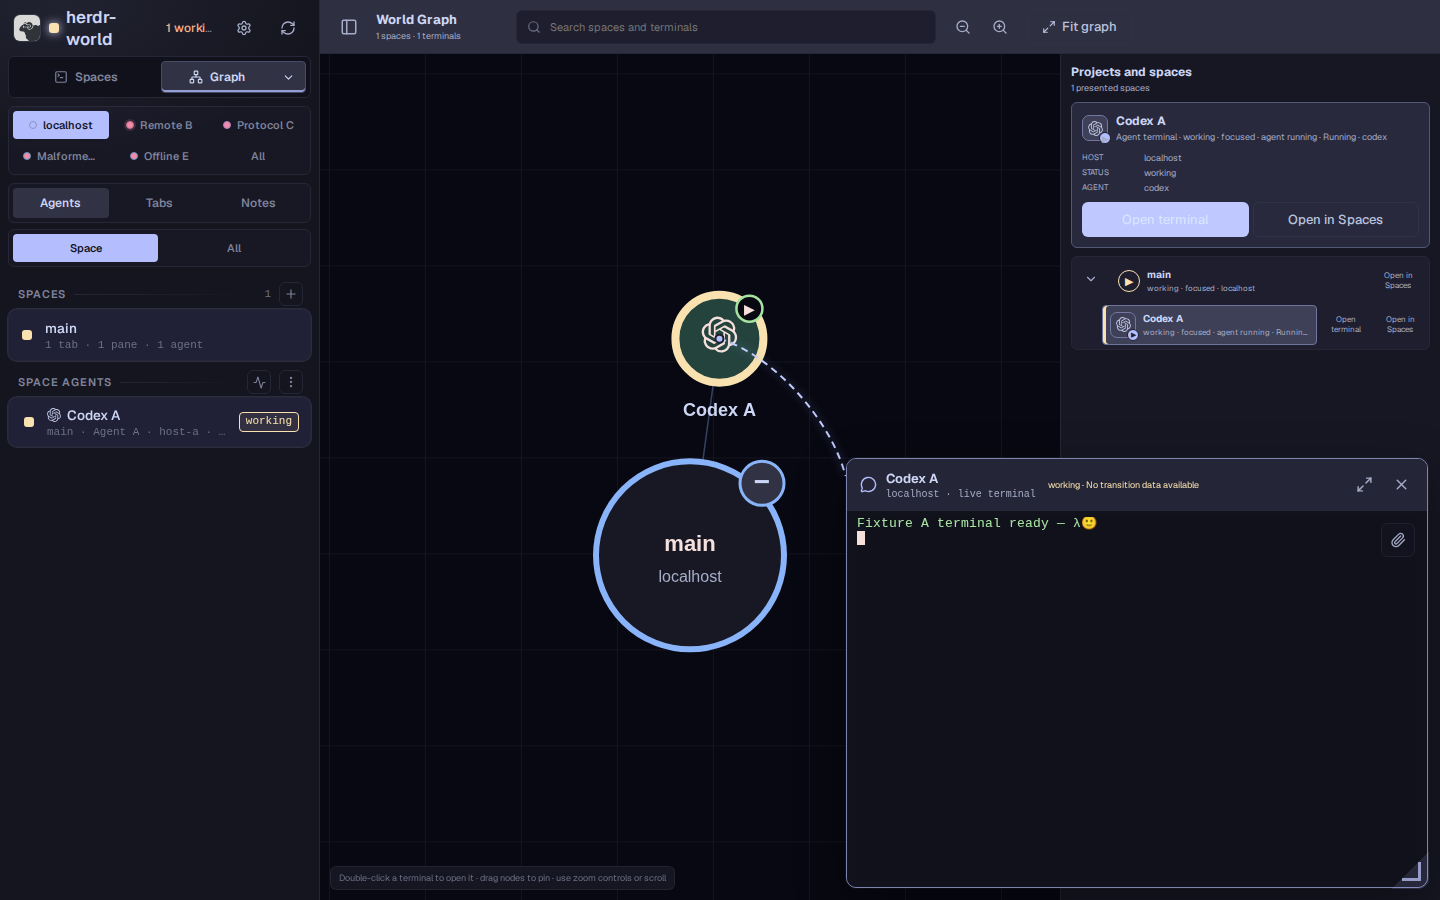
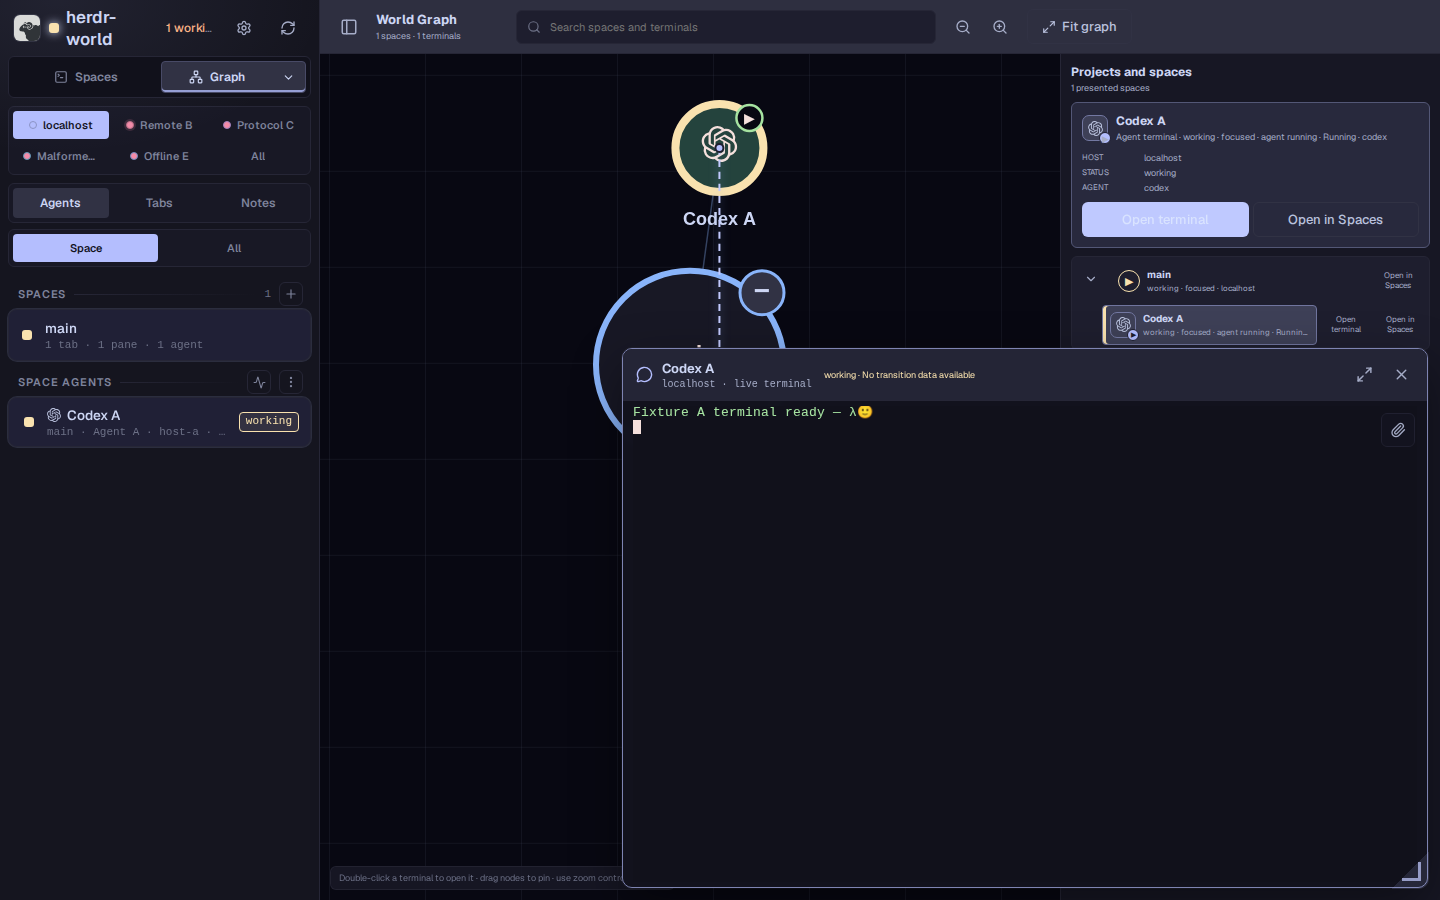
Keep fitted Graph connectors visible

diff --git a/web/src/world/graph/GraphCanvas.tsx b/web/src/world/graph/GraphCanvas.tsx
@@ -21,6 +21,7 @@ import type { GraphCamera, GraphViewPrefs, SavedGraphPosition } from "./graphVie
 const MIN_ZOOM = 0.25;
 const MAX_ZOOM = 3;
 const ZOOM_STEP = 1.25;
+const MIN_CONVERSATION_CONNECTOR_DISTANCE = 32;
 
 type GraphRendererDiagnostics = {
   mounts: number;
@@ -207,6 +208,7 @@ class GraphRenderer {
   #conversationTargets: readonly GraphConversationTarget[] = [];
   #conversationParentNodeIds = new Map<string, string>();
   #connectorPaths = new Map<string, { path: SVGPathElement; dot: SVGCircleElement }>();
+  #revealedConversationTargetIds = new Set<string>();
   #onToggleCollapse: (spaceId: string) => void = () => {};
   #onViewChange: (
     camera: GraphCamera,
@@ -287,6 +289,7 @@ class GraphRenderer {
       elements.path.remove();
       elements.dot.remove();
       this.#connectorPaths.delete(id);
+      this.#revealedConversationTargetIds.delete(id);
     }
     for (const target of targets) {
       if (this.#connectorPaths.has(target.id)) continue;
@@ -298,6 +301,7 @@ class GraphRenderer {
       this.#connectors.append(path, dot);
       this.#connectorPaths.set(target.id, { path, dot });
     }
+    this.#revealPendingConversationTargets();
     this.#diagnostics.conversationLinks = targets.length;
     this.#requestFrame();
   }
@@ -335,8 +339,8 @@ class GraphRenderer {
     if (this.#fitOnFirstLayout && this.#layout.nodes.size > 0) {
       this.#fitOnFirstLayout = false;
       this.fit();
-      return;
     }
+    this.#revealPendingConversationTargets();
     this.#requestFrame();
   }
 
@@ -400,6 +404,7 @@ class GraphRenderer {
       elements.dot.remove();
     }
     this.#connectorPaths.clear();
+    this.#revealedConversationTargetIds.clear();
   }
 
   #resize(width: number, height: number) {
@@ -719,6 +724,39 @@ class GraphRenderer {
     }
   }
 
+  #revealPendingConversationTargets() {
+    for (const target of this.#conversationTargets) {
+      if (this.#revealedConversationTargetIds.has(target.id)) continue;
+      if (this.#revealConversationTarget(target)) {
+        this.#revealedConversationTargetIds.add(target.id);
+      }
+    }
+  }
+
+  #revealConversationTarget(target: GraphConversationTarget) {
+    const layout = this.#layout;
+    if (!layout) return false;
+    const nodesBySelectionKey = new Map(
+      [...layout.nodes.values()].map((node) => [node.source.selectionKey, node]),
+    );
+    const parentId = this.#conversationParentNodeIds.get(target.selectionKey);
+    const node = nodesBySelectionKey.get(target.selectionKey) ??
+      (parentId ? layout.nodes.get(parentId) : undefined);
+    if (!node) return false;
+    const nudge = graphConversationCameraNudge({
+      x: this.#width / 2 + this.#camera.x + node.x * this.#camera.zoom,
+      y: this.#height / 2 + this.#camera.y + node.y * this.#camera.zoom,
+    }, target.rect);
+    if (nudge.x !== 0 || nudge.y !== 0) {
+      this.#camera = {
+        ...this.#camera,
+        x: this.#camera.x + nudge.x,
+        y: this.#camera.y + nudge.y,
+      };
+    }
+    return true;
+  }
+
   #onVisibilityChange = () => {
     this.#hidden = document.visibilityState === "hidden";
     this.#diagnostics.paused = this.#hidden;
@@ -738,6 +776,27 @@ class GraphRenderer {
     );
     this.#onViewChange({ ...this.#camera }, this.#savedPositions);
   }
+}
+
+export function graphConversationCameraNudge(
+  point: { x: number; y: number },
+  overlay: GraphConversationTarget["rect"],
+) {
+  const outsideX = Math.max(overlay.left - point.x, 0, point.x - overlay.right);
+  const outsideY = Math.max(overlay.top - point.y, 0, point.y - overlay.bottom);
+  if (Math.hypot(outsideX, outsideY) >= MIN_CONVERSATION_CONNECTOR_DISTANCE) {
+    return { x: 0, y: 0 };
+  }
+  return [
+    { x: overlay.left - MIN_CONVERSATION_CONNECTOR_DISTANCE - point.x, y: 0 },
+    { x: overlay.right + MIN_CONVERSATION_CONNECTOR_DISTANCE - point.x, y: 0 },
+    { x: 0, y: overlay.top - MIN_CONVERSATION_CONNECTOR_DISTANCE - point.y },
+    { x: 0, y: overlay.bottom + MIN_CONVERSATION_CONNECTOR_DISTANCE - point.y },
+  ].reduce((nearest, candidate) =>
+    Math.hypot(candidate.x, candidate.y) < Math.hypot(nearest.x, nearest.y)
+      ? candidate
+      : nearest
+  );
 }
 
 function graphRendererDiagnostics() {

diff --git a/web/src/world/graph/GraphCanvas.test.tsx b/web/src/world/graph/GraphCanvas.test.tsx
@@ -6,6 +6,7 @@ import { afterEach, beforeEach, describe, expect, it, vi } from "vitest";
 
 import {
   GraphCanvas,
+  graphConversationCameraNudge,
   graphTerminalGlyphKind,
   LatestFrameValue,
 } from "./GraphCanvas";
@@ -173,6 +174,18 @@ describe("Graph renderer ownership", () => {
     expect(positions).toMatchObject({
       space: { x: 0, y: 0, pinned: true },
       terminal: { x: 100, y: 0, pinned: true },
+    });
+  });
+
+  it("nudges a newly connected node only enough to keep its connector visible", () => {
+    const overlay = { left: 620, top: 348, right: 1428, bottom: 888 };
+    expect(graphConversationCameraNudge({ x: 719, y: 339 }, overlay)).toEqual({
+      x: 0,
+      y: -23,
+    });
+    expect(graphConversationCameraNudge({ x: 719, y: 300 }, overlay)).toEqual({
+      x: 0,
+      y: 0,
     });
   });
 

diff --git a/tests/e2e/graphConnector.ts b/tests/e2e/graphConnector.ts
@@ -30,6 +30,6 @@ export async function expectGraphConnectorOutsideOverlay(page: Page, windowId: s
   }, windowId);
 
   expect(metrics).not.toBeNull();
-  expect(metrics?.pathLength).toBeGreaterThan(24);
+  expect(metrics?.pathLength, JSON.stringify(metrics)).toBeGreaterThan(24);
   expect(metrics?.sourceDistanceFromOverlay, JSON.stringify(metrics)).toBeGreaterThan(24);
 }
